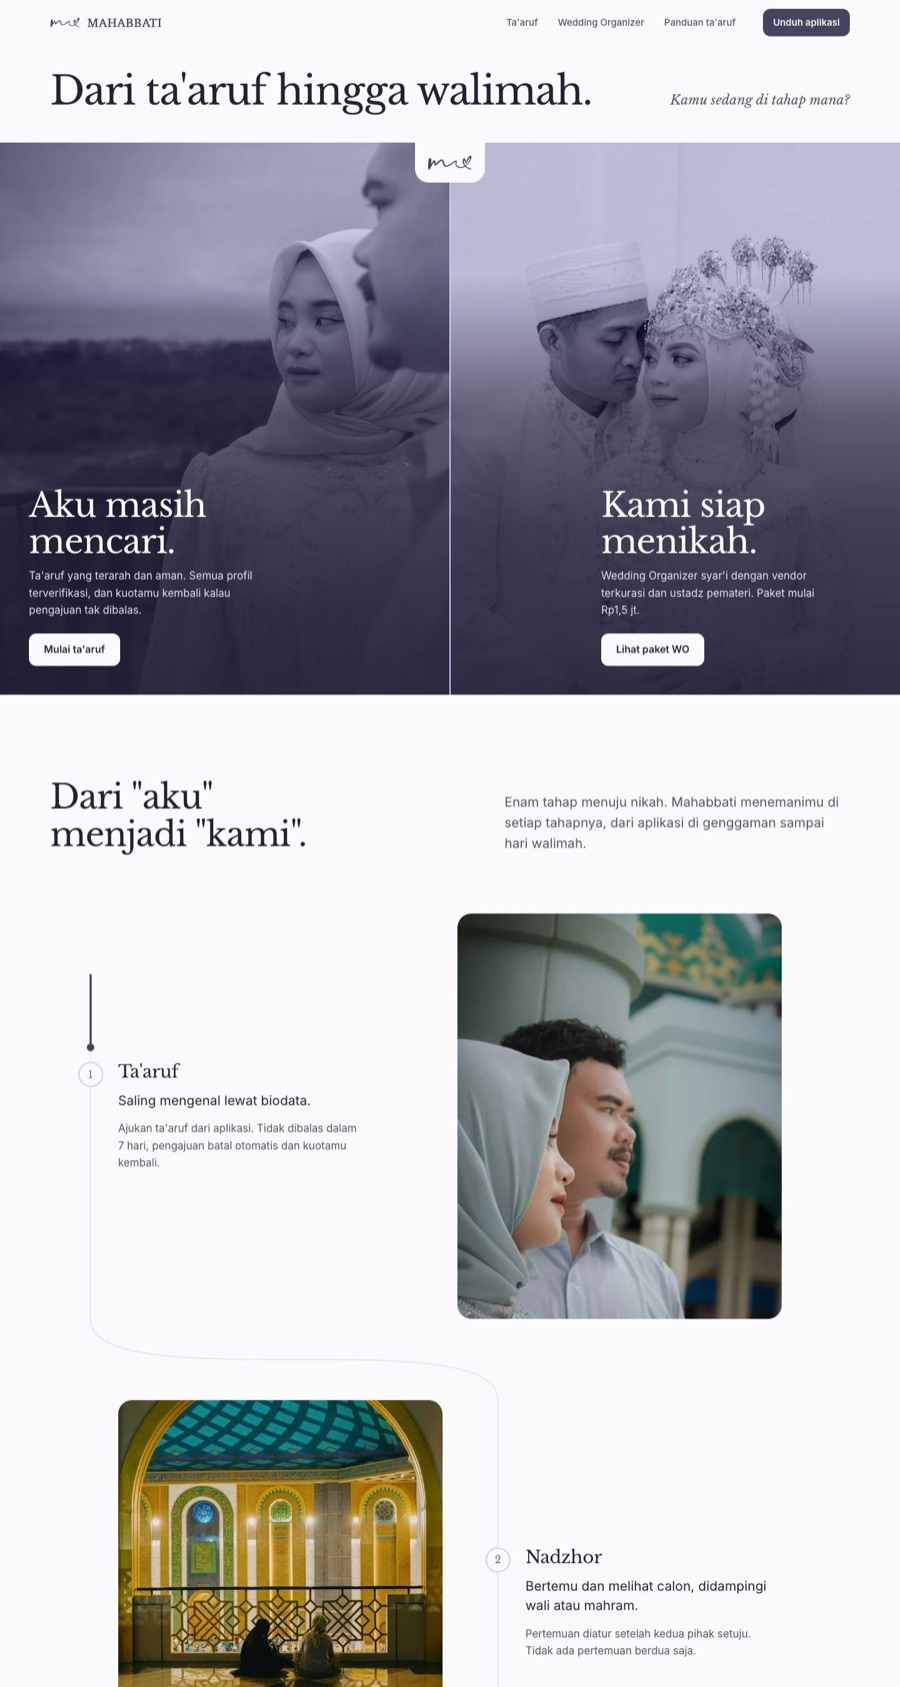
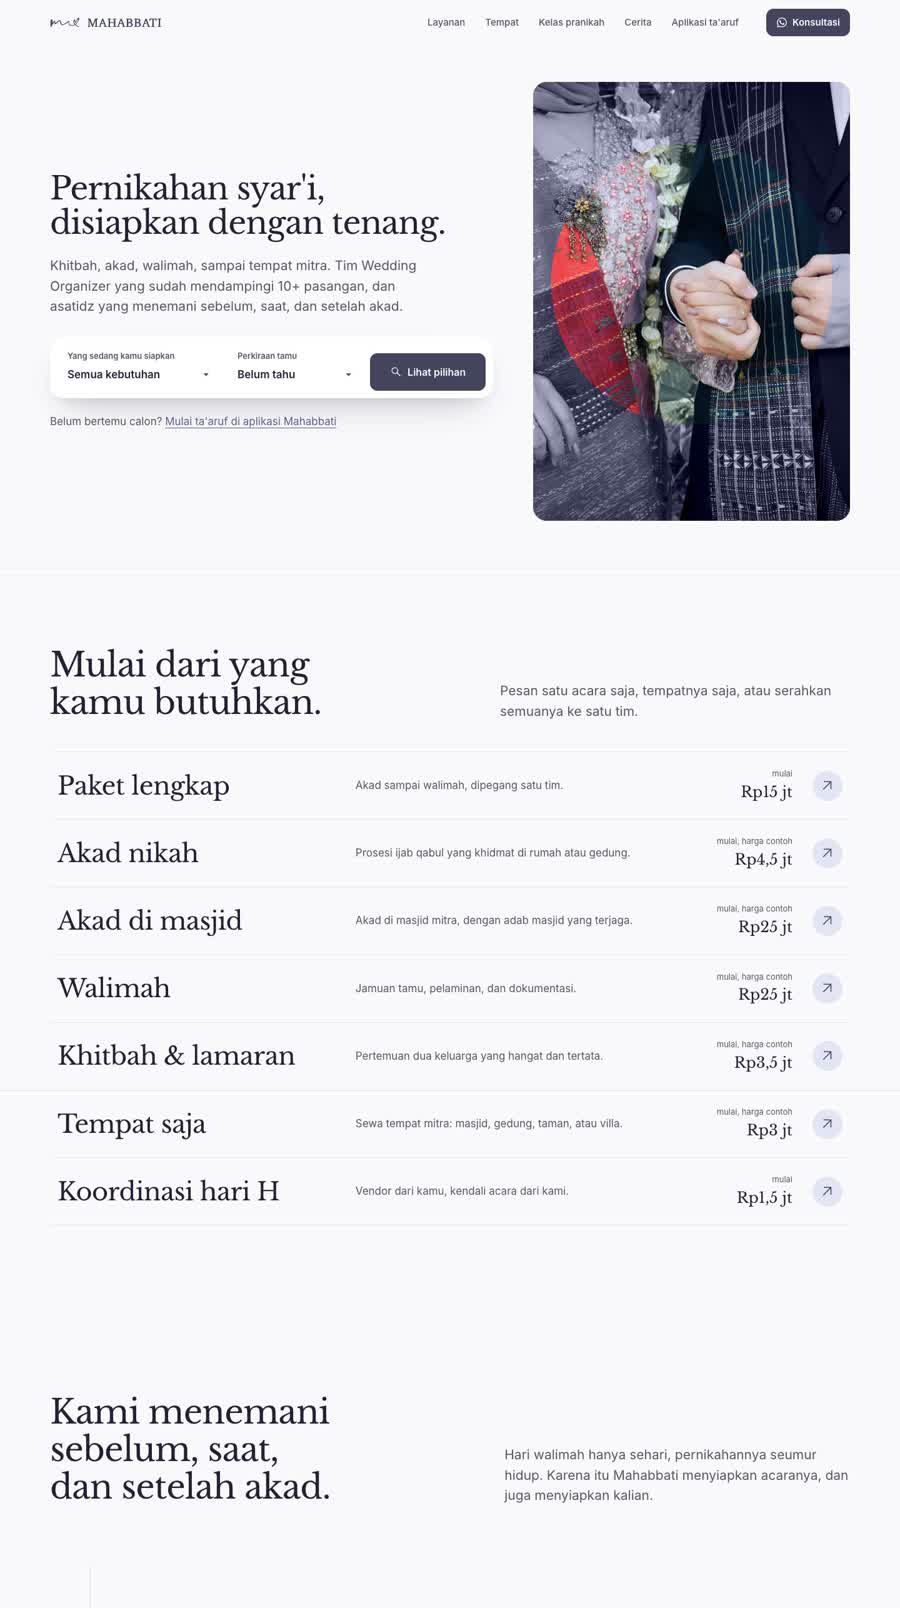
Refresh Mahabbati microsite thumbnail
The microsite now leads with the wedding organizer; new screenshot and
matching descriptions on the home page and the case study.

diff --git a/work/mahabbati.html b/work/mahabbati.html
@@ -104,10 +104,10 @@
       </section>
       <section class="case-section">
         <h2>Beyond the app</h2>
-        <p>With AI as a pair programmer, I also designed and built Mahabbati's acquisition microsite for the app and its wedding organizer.</p>
+        <p>With AI as a pair programmer, I also designed and built Mahabbati's microsite for its sharia wedding organizer, with a path into the ta'aruf app for people still searching.</p>
         <div class="builds" style="grid-template-columns:repeat(1,1fr);margin-top:28px"><a class="build" href="https://ridwanahmadm.github.io/Mahabbati/" rel="noopener">
             <div class="build-shot"><img src="../assets/img/proto/mahabbati.jpg" alt="Mahabbati microsite" loading="lazy" decoding="async"></div>
-            <span class="t">Mahabbati microsite</span><span class="meta">For people still searching and couples ready to marry</span>
+            <span class="t">Mahabbati microsite</span><span class="meta">Sharia wedding organizer, from khitbah to walimah</span>
           </a></div>
       </section>
       <section class="case-section">

diff --git a/index.html b/index.html
@@ -354,9 +354,9 @@
             <span class="meta">A tajwid study app with personal progress that works offline, 2026</span>
           </a>
           <a class="build" href="https://ridwanahmadm.github.io/Mahabbati/" rel="noopener">
-            <div class="build-shot"><img src="assets/img/proto/mahabbati.jpg" alt="Mahabbati ta'aruf and wedding website" width="900" height="1688" loading="lazy" decoding="async"></div>
+            <div class="build-shot"><img src="assets/img/proto/mahabbati.jpg" alt="Mahabbati ta'aruf and wedding website" width="900" height="1608" loading="lazy" decoding="async"></div>
             <span class="t">Mahabbati</span>
-            <span class="meta">Microsite for a ta'aruf app and its wedding organizer, 2026</span>
+            <span class="meta">Site for a sharia wedding organizer, with a path to the ta'aruf app, 2026</span>
           </a>
         </div>
       </div>
